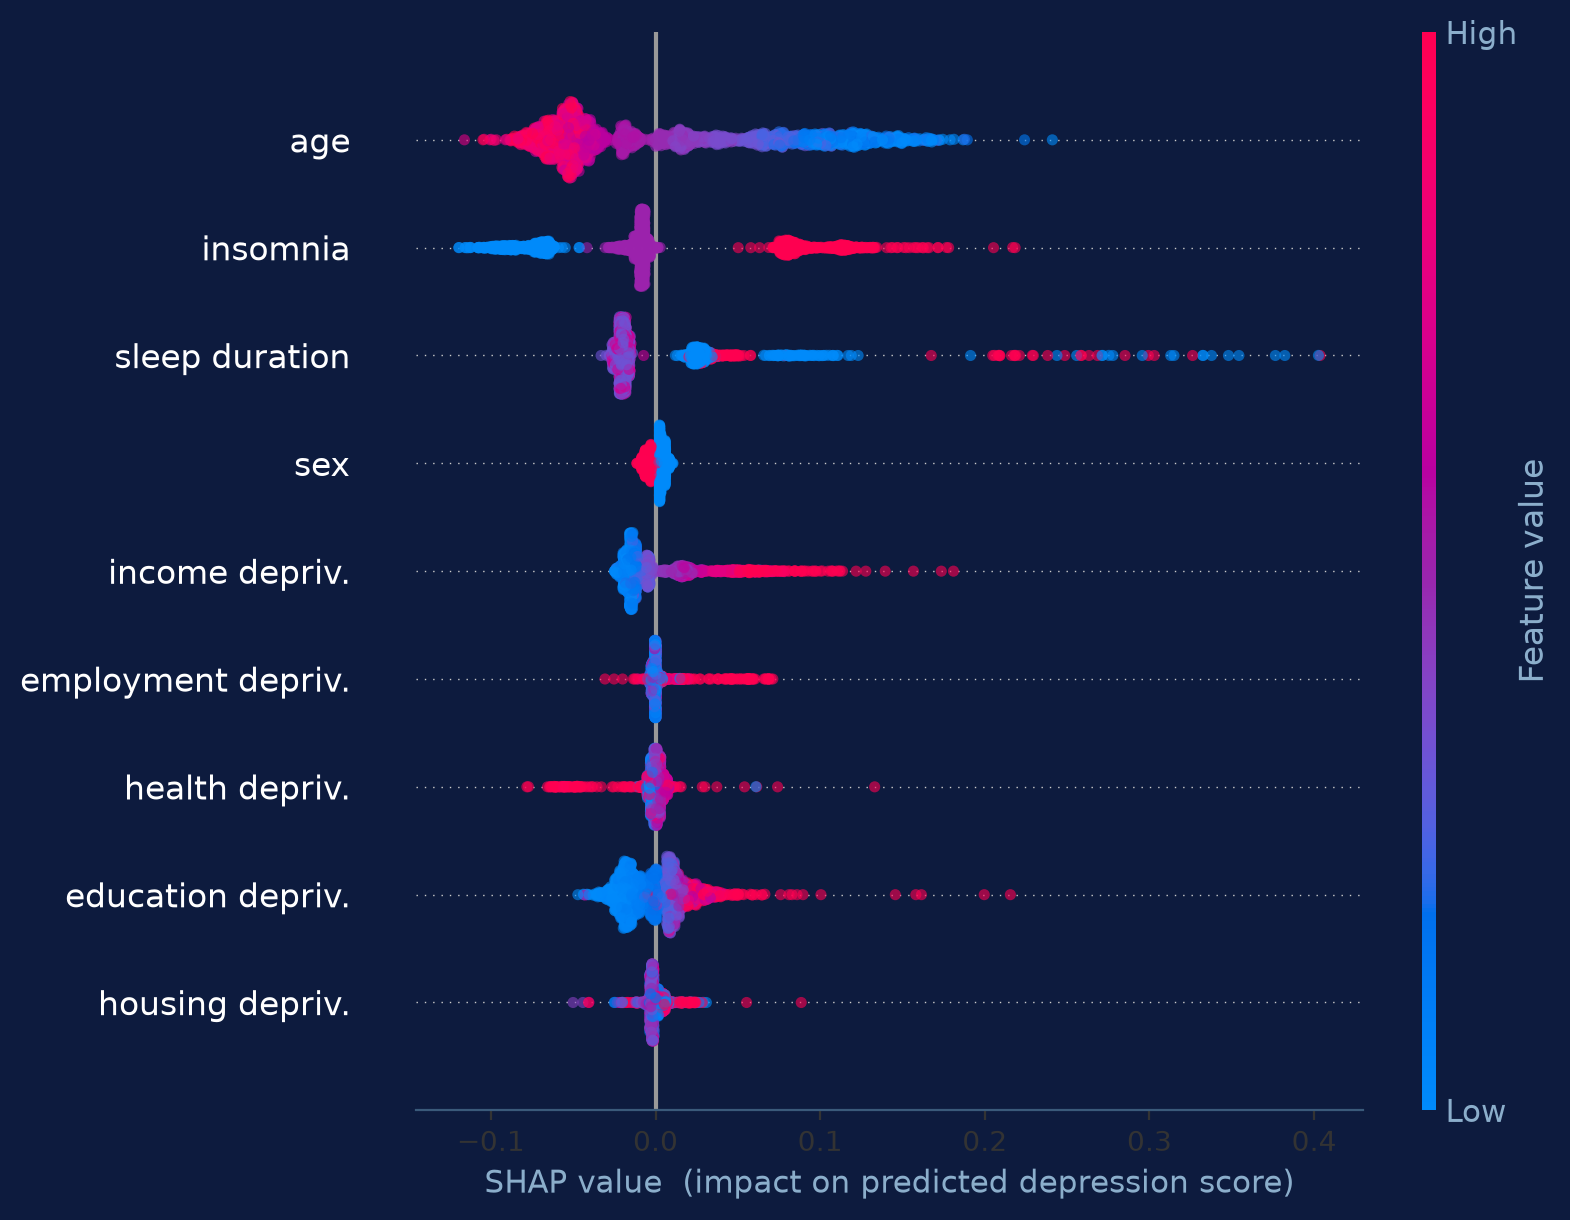
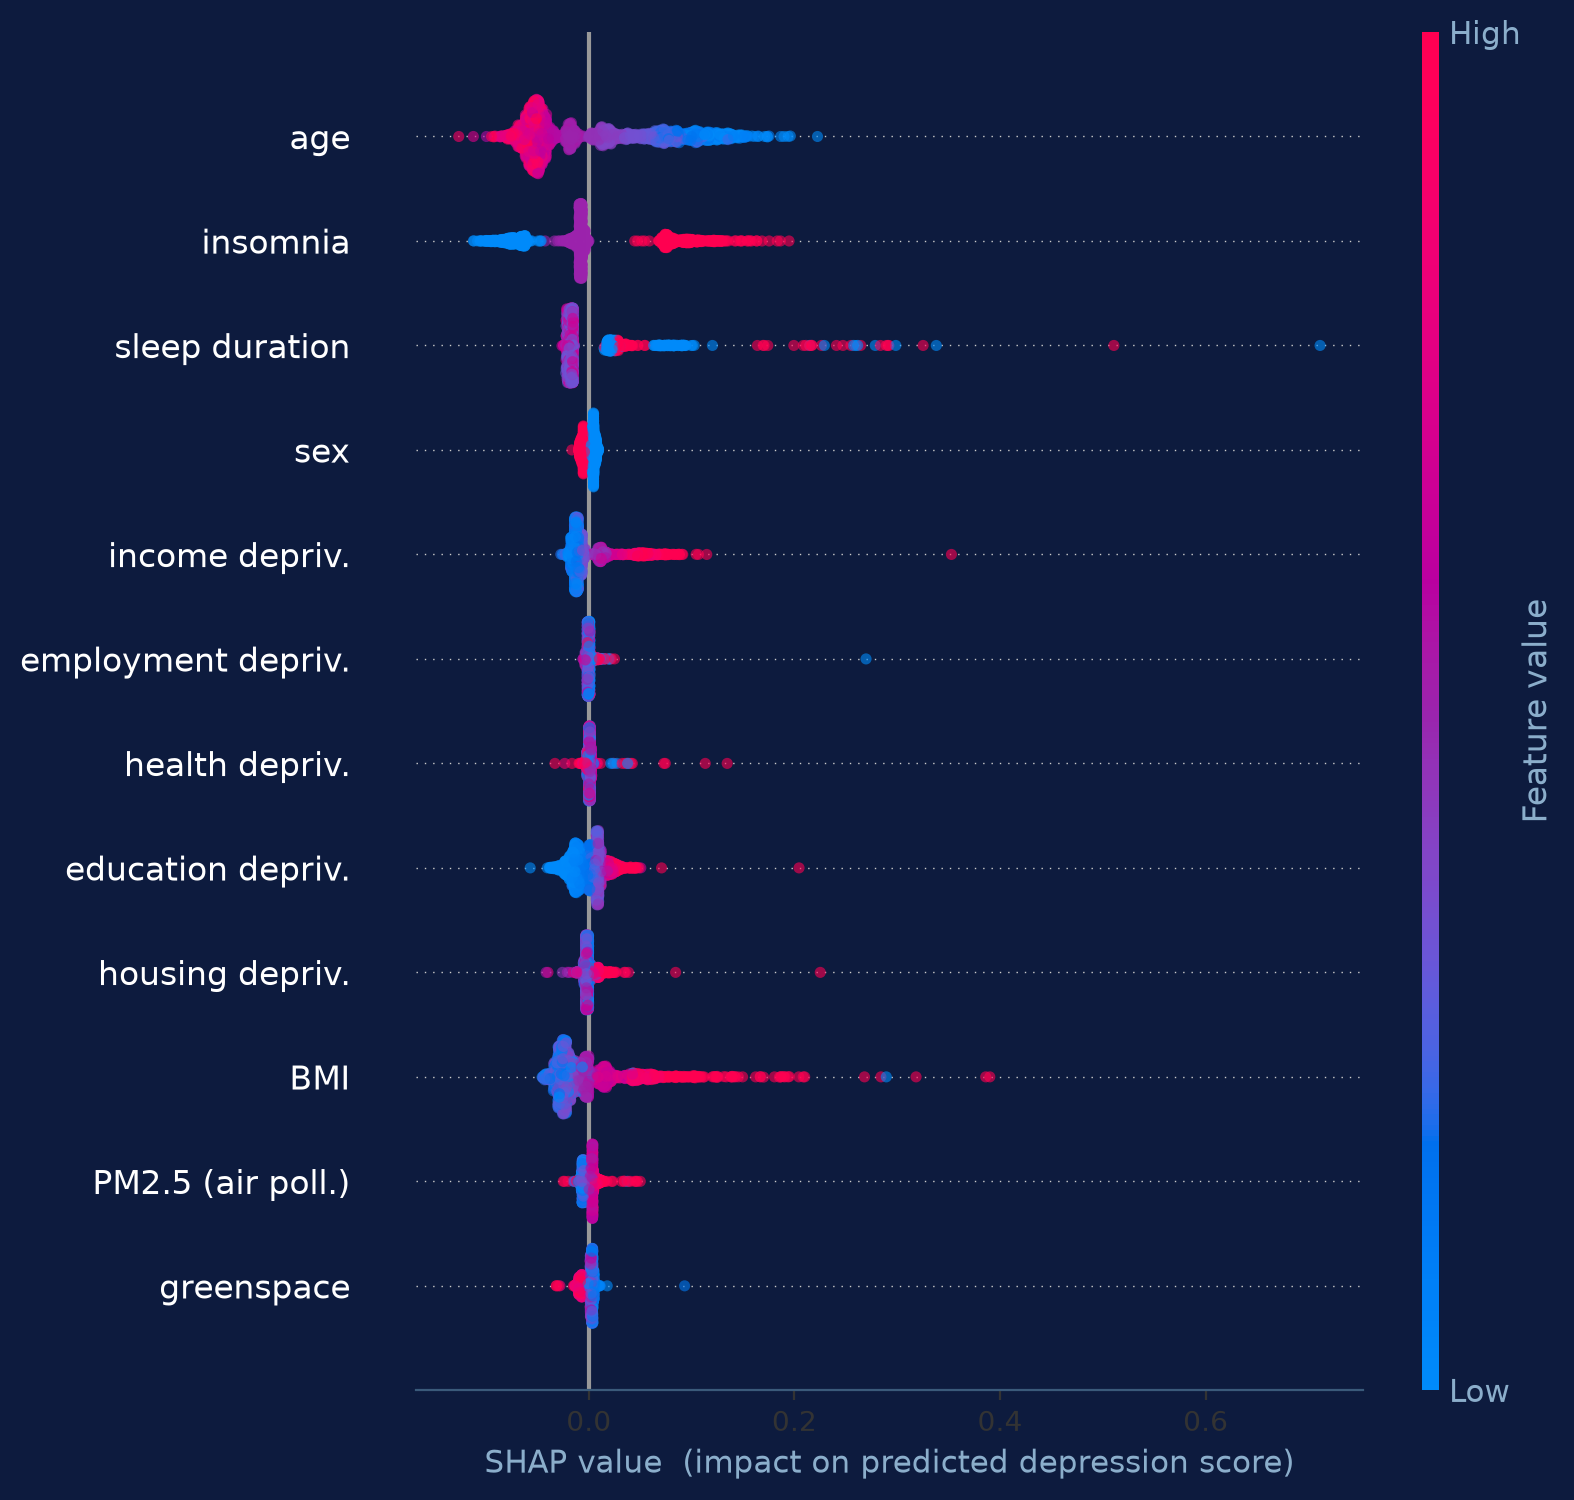
Add BMI, PM2.5 & greenspace to OLS+SHAP model and regenerate figure

diff --git a/index.html b/index.html
@@ -349,19 +349,22 @@
 
     <div id="r-ols" class="tabpane active">
       <h3>OLS + SHAP — drivers of depression</h3>
-      <p>Outcome = depression score (PHQ items), n = 135,541, R² = 0.039.</p>
+      <p>Outcome = depression score (PHQ items), n = 132,179, R² = 0.045. Now includes <strong>BMI</strong>, <strong>PM2.5 air pollution</strong> and <strong>greenspace</strong>.</p>
       <table>
         <thead><tr><th>Variable</th><th>Std. β</th><th>Direction</th></tr></thead>
         <tbody>
-          <tr><td>Insomnia</td><td class="num">+0.069</td><td class="sig">↑ risk ***</td></tr>
-          <tr><td>Age</td><td class="num">−0.065</td><td class="sig">↓ protective ***</td></tr>
-          <tr><td>Income deprivation</td><td class="num">+0.028</td><td class="sig">↑ risk ***</td></tr>
-          <tr><td>Education deprivation</td><td class="num">+0.019</td><td class="sig">↑ risk ***</td></tr>
-          <tr><td>Sleep duration</td><td class="num">−0.005</td><td class="sig">↓ ***</td></tr>
+          <tr><td>Insomnia</td><td class="num">+0.066</td><td class="sig">↑ risk ***</td></tr>
+          <tr><td>Age</td><td class="num">−0.066</td><td class="sig">↓ protective ***</td></tr>
+          <tr><td>BMI</td><td class="num">+0.042</td><td class="sig">↑ risk ***</td></tr>
+          <tr><td>Income deprivation</td><td class="num">+0.024</td><td class="sig">↑ risk ***</td></tr>
+          <tr><td>Education deprivation</td><td class="num">+0.017</td><td class="sig">↑ risk ***</td></tr>
+          <tr><td>PM2.5 (air pollution)</td><td class="num">+0.006</td><td class="sig">↑ risk **</td></tr>
+          <tr><td>Greenspace</td><td class="num">−0.004</td><td class="sig">↓ protective *</td></tr>
+          <tr><td>Sleep duration</td><td class="num">−0.004</td><td class="sig">↓ **</td></tr>
           <tr><td>Sex / other deprivation</td><td class="num">≈ ±0.00</td><td class="ns">negligible</td></tr>
         </tbody>
       </table>
-      <figure><img src="assets/shap.png" alt="SHAP beeswarm"><figcaption>SHAP importance — age &amp; insomnia dominate; income/education deprivation are real but smaller drivers.</figcaption></figure>
+      <figure><img src="assets/shap.png" alt="SHAP beeswarm"><figcaption>SHAP importance — age &amp; insomnia dominate; <strong>BMI</strong> emerges as the third-strongest driver. Income/education deprivation are real but smaller; PM2.5 and greenspace are significant but modest. <em>Air pollution: PM2.5 shown as a single proxy — the correlated NO₂/NOx/PM family is handled jointly by WQS.</em></figcaption></figure>
     </div>
 
     <div id="r-wqs" class="tabpane">
@@ -459,7 +462,9 @@
     <ul>
       <li><strong>Insomnia &amp; age</strong> dominate every model — consistently, in opposite directions.</li>
       <li><strong>Sleep duration</strong> is U-shaped (too little and too much both worse) — captured by SHAP, hidden by linear coefficients.</li>
+      <li><strong>BMI</strong> emerges as the third-strongest driver (after age &amp; insomnia) once added — higher BMI tracks with higher depression.</li>
       <li><strong>Income &amp; education deprivation</strong> significantly raise depression; the five deprivation domains are highly correlated, motivating the mixture (WQS) approach.</li>
+      <li><strong>Environment:</strong> PM2.5 air pollution (↑) and greenspace (↓) are statistically significant but small — the correlated pollution family is best handled jointly by WQS.</li>
       <li><strong>Mediation:</strong> deprivation → depression is ~95% direct, ~5% via insomnia (CI excludes zero).</li>
       <li>Effect sizes are modest (R² ≈ 0.04) — these are population-level associations, not strong individual predictors, and are associational, not causal.</li>
     </ul>